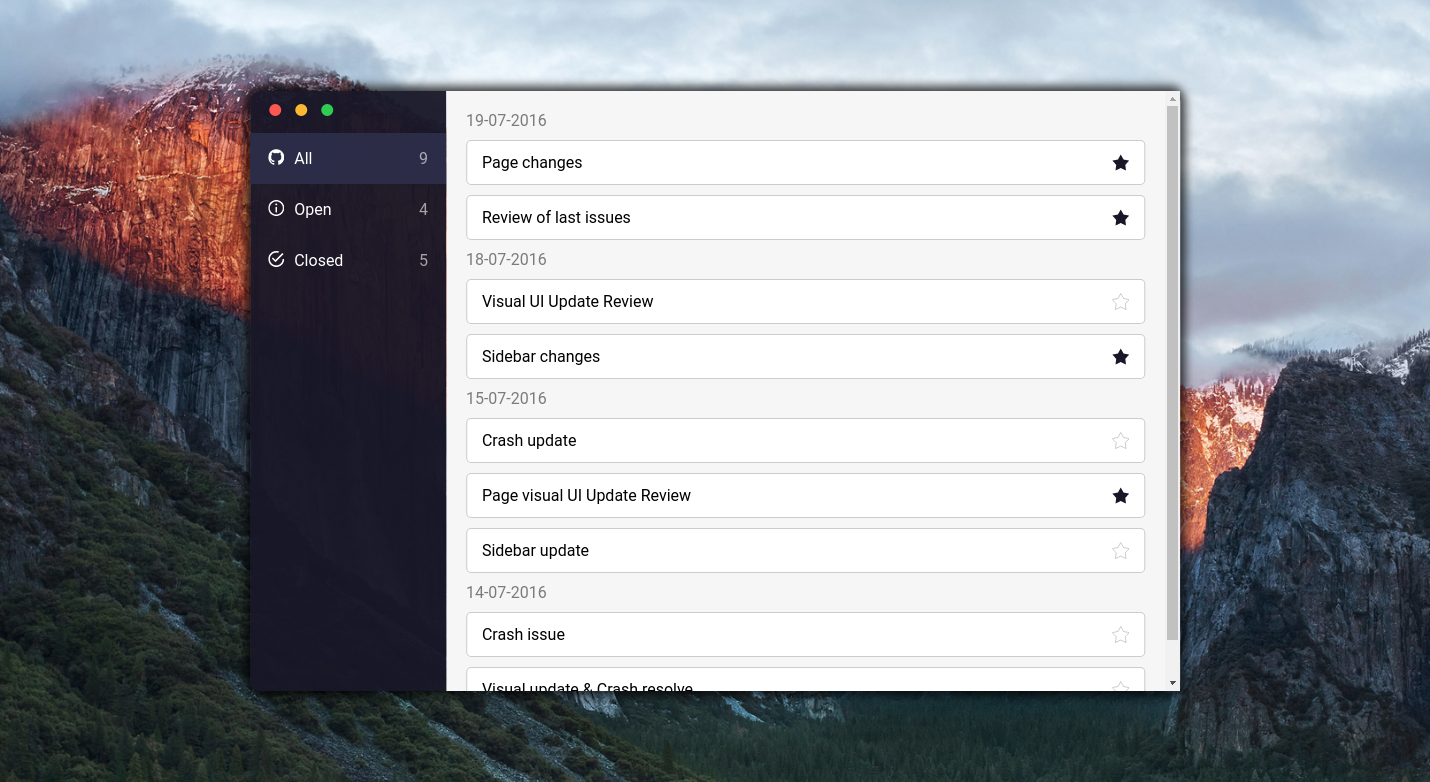
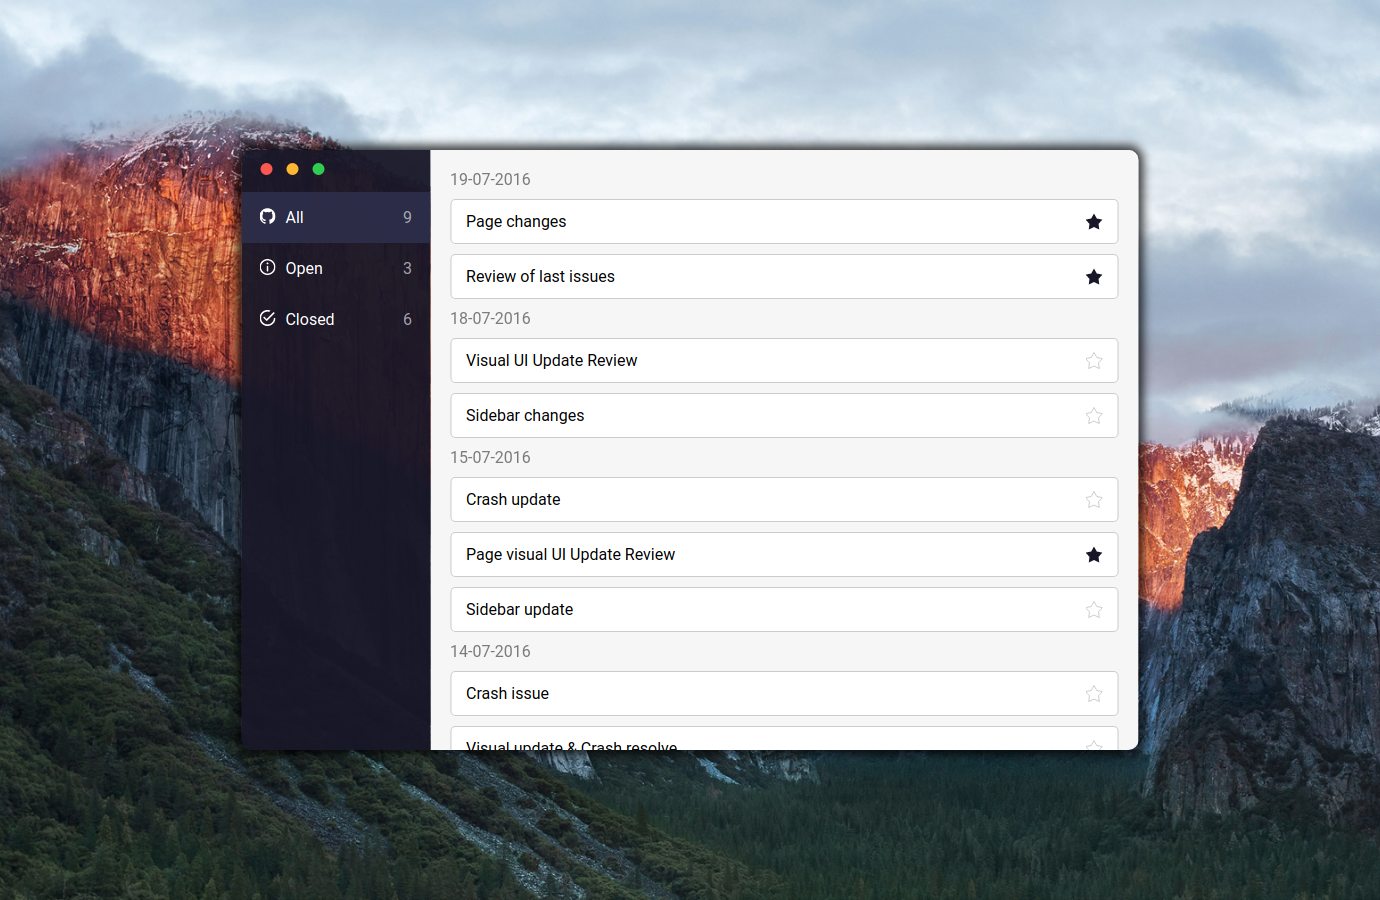
Remove scrollbar

diff --git a/src/index.css b/src/index.css
@@ -19,6 +19,11 @@ ul {
   list-style: none;
 }
 
+::-webkit-scrollbar {
+  display: none;
+}
+
+
 
 .app {
   position: fixed;

diff --git a/README.md b/README.md
@@ -5,6 +5,16 @@
 GitHub Manager is a FrontEnd application that allows users to fetch and manage GitHub issues for a specific project.<br/>
 The ajax call to GitHub API is simulated using a mock 'data.json' file the issues.<br/><br/>
 
-<img src="./screenshot.png"/>
-<br/>
-The user interface is really intuitive and clean.
+<img src="./screenshot.png"/><br/>
+
+The user interface is really intuitive and clean. <br/><br/>
+
+### Install
+
+To install and run the project:
+```
+git clone https://github.com/L-oris/Github_Manager.git
+cd Github_Manager
+npm install
+npm start
+```
